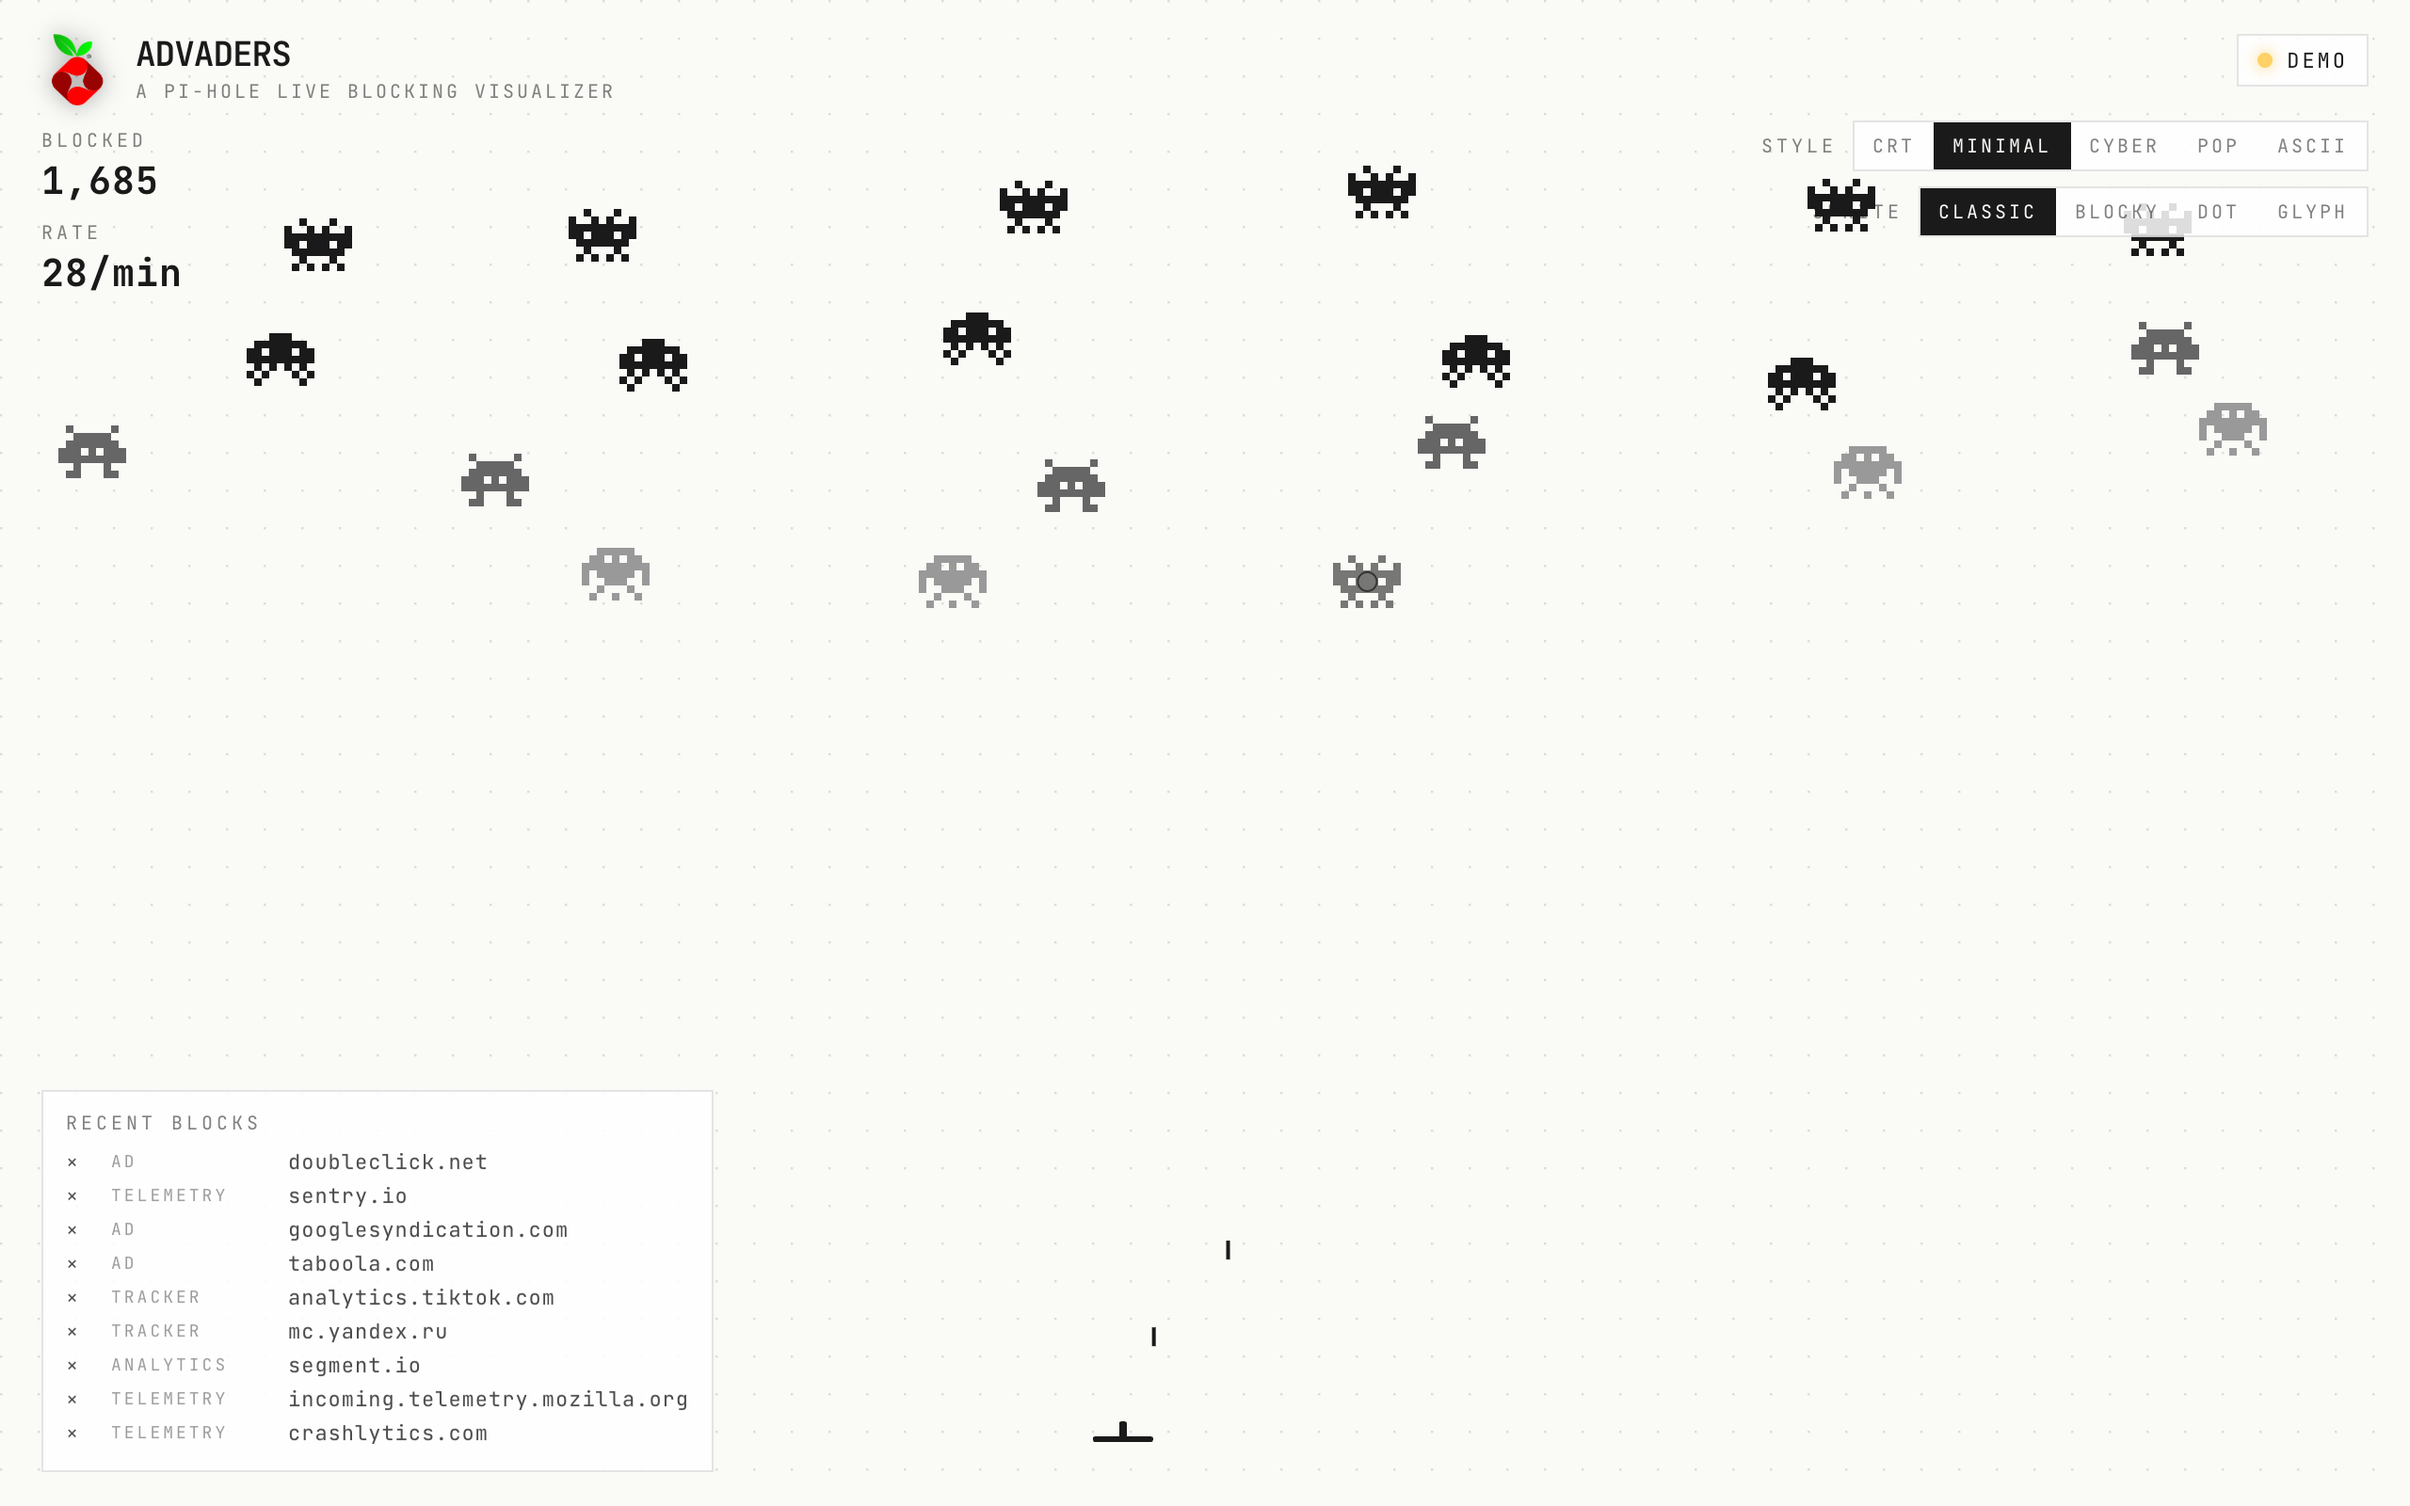
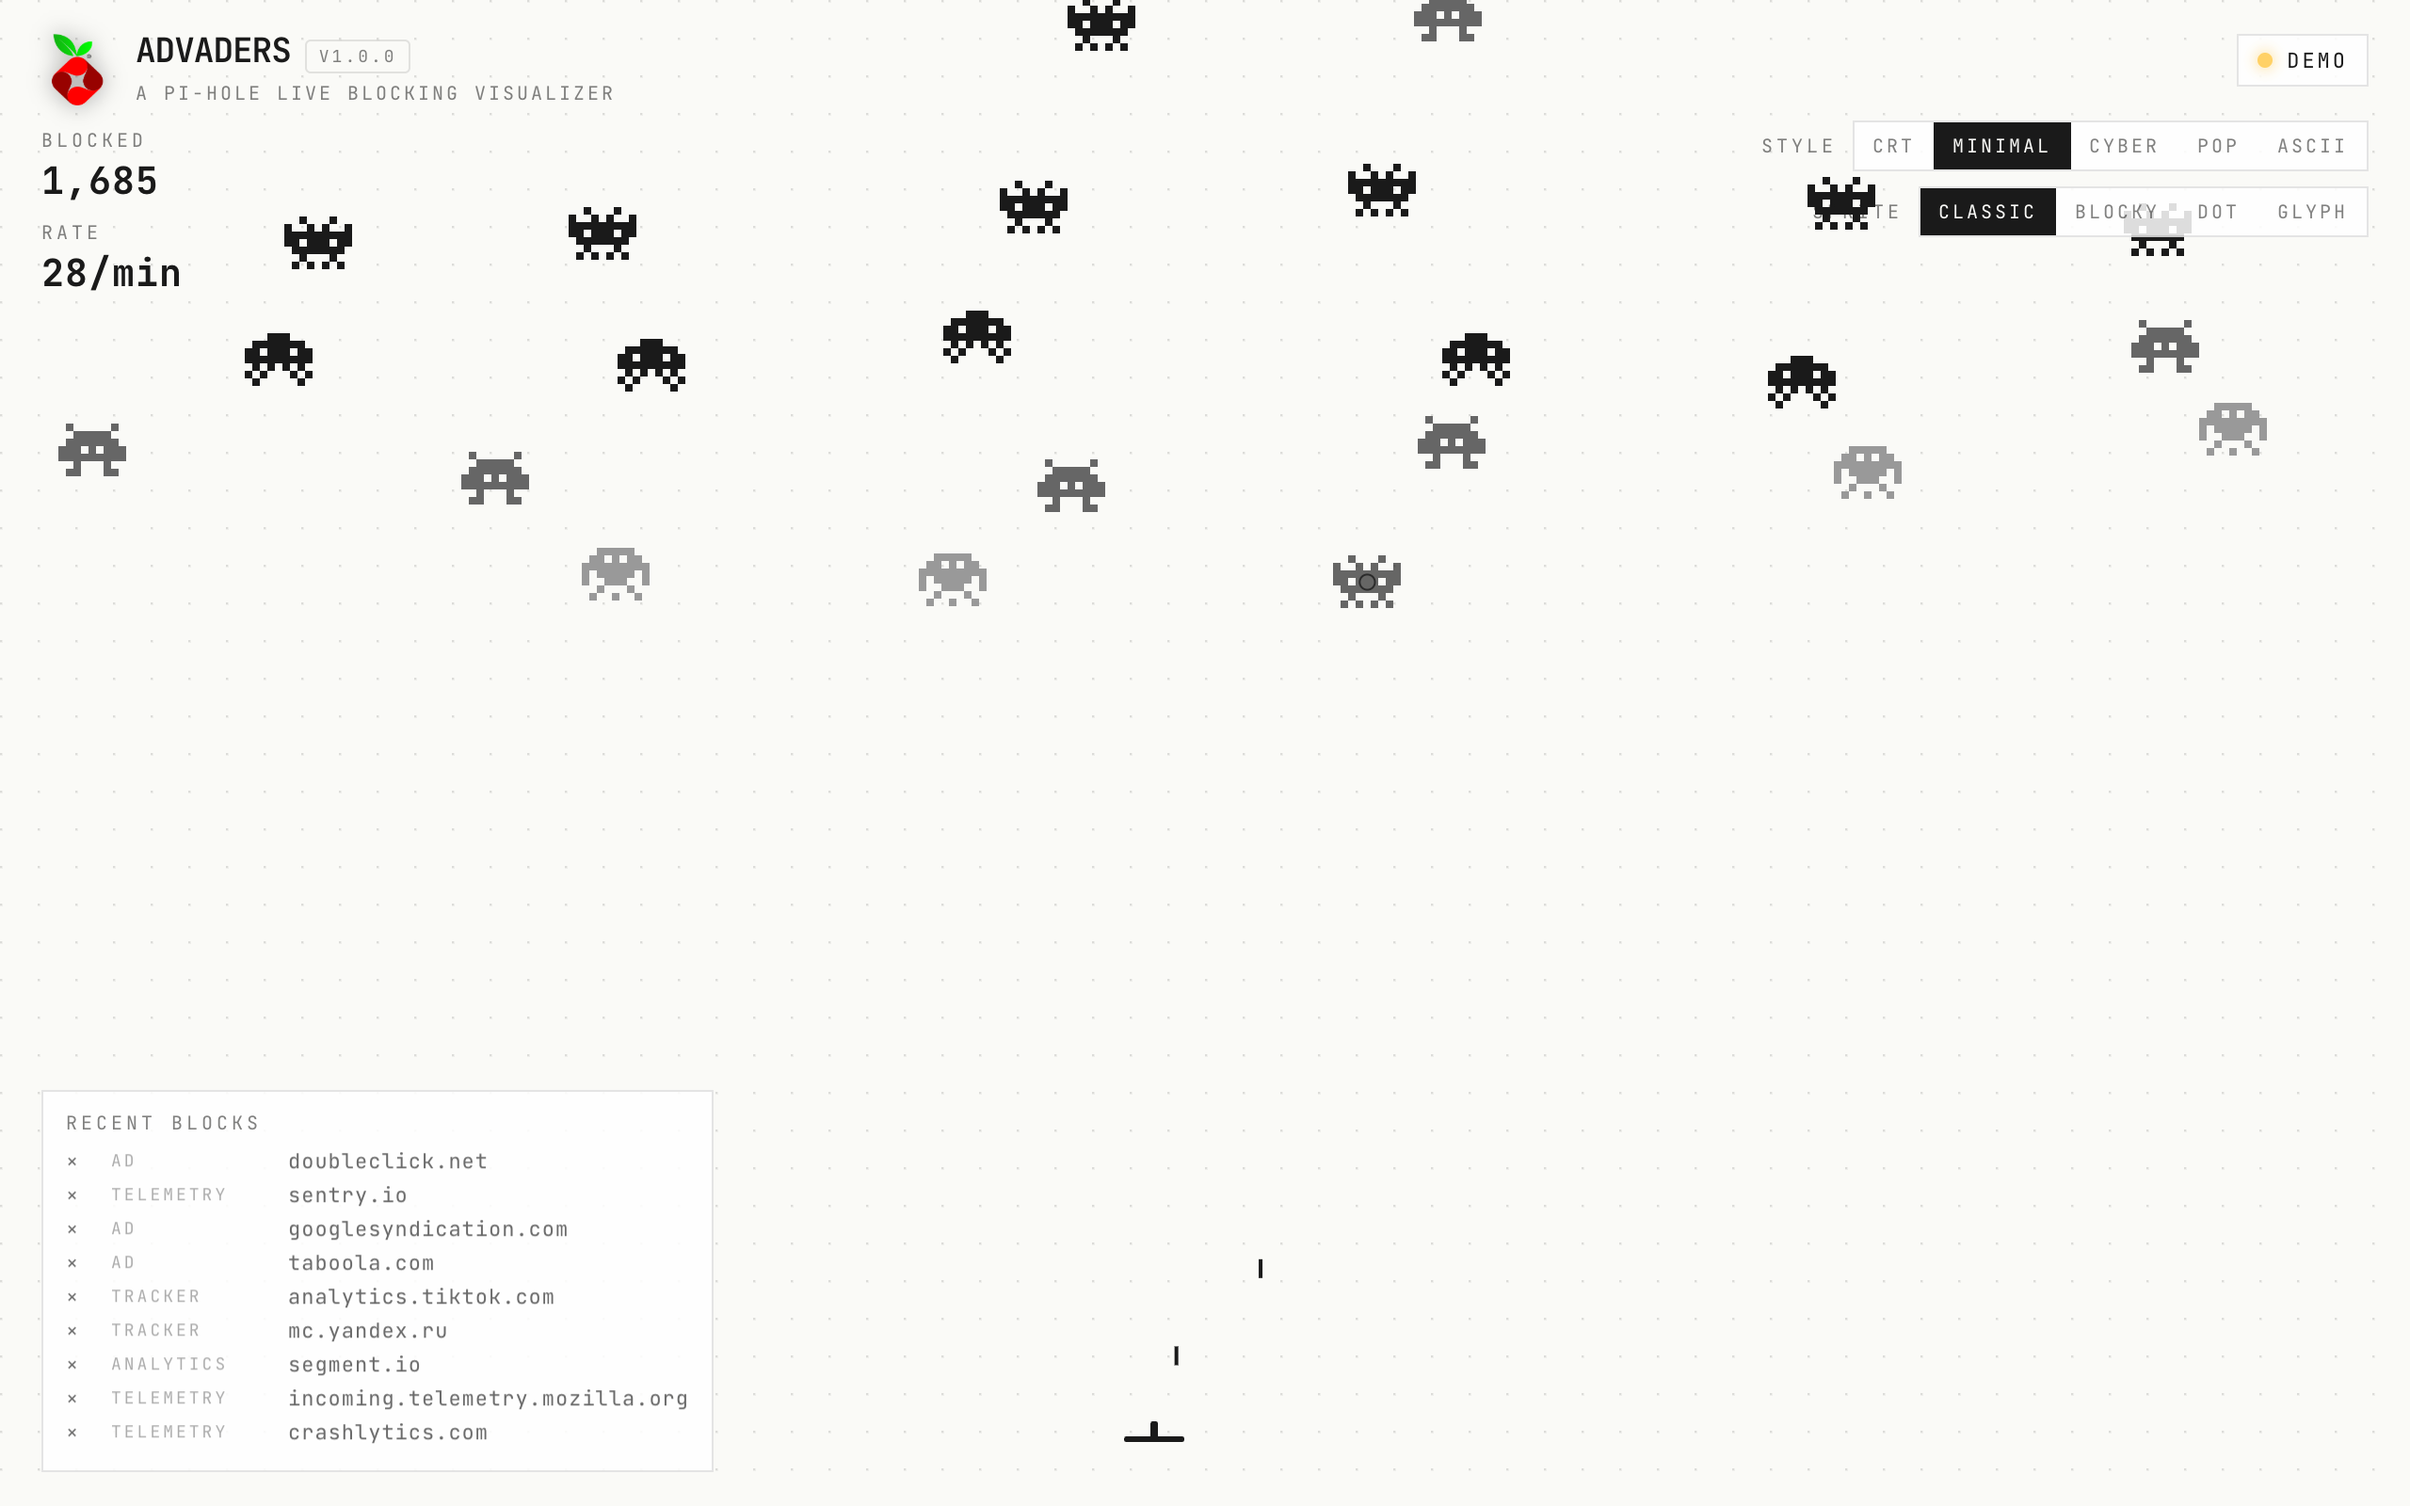
Pre-1.0 audit: bug fixes, perf, dead-code
Bugs:
- Demo mode no longer sticky — poller keeps running and recovers when
  Pi-hole returns
- First Pi-hole poll skips the historical backlog (Pi-hole's /api/queries
  returns the last N records; we'd flood the field with old blocks at
  startup and on every page load)
- document.title is no longer clobbered by the default cfg.title — only
  overridden when the user customizes TITLE
- body.className uses classList add/remove so it doesn't clobber
  unrelated classes

Perf:
- Theme backgrounds (CRT scanlines, minimal dot grid, cyber grid lines,
  ASCII char rain, pop gradient) are static per theme/W/H — cached into
  an offscreen canvas and drawImage'd each frame instead of redrawn.
  Biggest gain on ASCII (was ~5000 fillText calls/frame).
- Tooltip: skip DOM writes when hovered state unchanged; cache offsetW/H
  to avoid forced layout 60 times/sec.
- Shot homing: squared-distance hit test (no sqrt) + skip homing math
  on hit frame.

Dead code:
- inv.seed (written, never read), hash() (now unused)
- DEFAULT_DENSITY env var + state.config.defaultDensity were plumbed but
  never wired up — removed everywhere

diff --git a/public/game.js b/public/game.js
@@ -352,6 +352,28 @@ function roundRect(ctx, x, y, w, h, r) {
   ctx.closePath();
 }
 
+// ── background cache (theme bgs are static per W/H/theme, expensive to
+// redraw at 60fps — minimal's dot grid + ASCII's char rain alone are
+// thousands of draw calls per frame). Render once into an offscreen
+// canvas, drawImage from there each frame. Invalidate on resize/theme.
+let bgCache = { theme: null, w: 0, h: 0, dpr: 0, canvas: null };
+function getBgCanvas(theme, w, h) {
+  if (bgCache.theme === theme && bgCache.w === w && bgCache.h === h && bgCache.dpr === DPR) {
+    return bgCache.canvas;
+  }
+  const c = bgCache.canvas || document.createElement('canvas');
+  c.width = Math.floor(w * DPR);
+  c.height = Math.floor(h * DPR);
+  const cx = c.getContext('2d');
+  cx.setTransform(DPR, 0, 0, DPR, 0, 0);
+  cx.imageSmoothingEnabled = false;
+  cx.fillStyle = theme.bg === 'gradient' ? '#ffe6c4' : theme.bg;
+  cx.fillRect(0, 0, w, h);
+  theme.drawBg(cx, w, h);
+  bgCache = { theme, w, h, dpr: DPR, canvas: c };
+  return c;
+}
+
 // ── sprite cache (offscreen rasterized pixel art) ──────────
 const spriteCache = new Map();
 function getSpriteCanvas(category, frame, color, blocky) {
@@ -417,7 +439,6 @@ function drawInvader(inv, theme, spriteStyle, frame, hovered) {
 // ── state ──────────────────────────────────────────────────
 const CLIENT_NAMES = ['kitchen-tv', 'macbook-pro', 'iphone-15', 'roku-living', 'pixel-9', 'office-laptop', 'thermostat'];
 function pickClient(real) { return real || CLIENT_NAMES[Math.floor(Math.random() * CLIENT_NAMES.length)]; }
-function hash(s) { let h = 0; for (let i = 0; i < s.length; i++) h = ((h << 5) - h + s.charCodeAt(i)) | 0; return Math.abs(h); }
 
 const state = {
   config: {
@@ -479,9 +500,10 @@ function hitTest(mx, my) {
 let lastTimestamp = 0;
 let pollInflight = false;
 let lastSeenIds = new Set();
+let firstPoll = true;
 
 async function pollPihole() {
-  if (demoMode || pollInflight) return;
+  if (pollInflight) return;
   pollInflight = true;
   try {
     const r = await fetch(`api/queries?since=${lastTimestamp}`);
@@ -496,10 +518,17 @@ async function pollPihole() {
       if (lastSeenIds.size > 1000) {
         const arr = [...lastSeenIds]; lastSeenIds = new Set(arr.slice(-500));
       }
-      const interval = state.config.pollIntervalMs;
-      const stagger = blocked.length > 0 ? Math.max(40, Math.floor(interval / Math.max(blocked.length, 1))) : 0;
-      blocked.forEach((q, i) => setTimeout(() => state.spawnQueue.push(q), i * stagger));
       lastTimestamp = data.timestamp || lastTimestamp;
+      // Skip the historical backlog returned by the very first poll —
+      // we just want to start tracking from "now". Without this, Pi-hole's
+      // last 200 blocks would all flood the field at startup.
+      if (firstPoll) {
+        firstPoll = false;
+      } else if (blocked.length) {
+        const interval = state.config.pollIntervalMs;
+        const stagger = Math.max(40, Math.floor(interval / blocked.length));
+        blocked.forEach((q, i) => setTimeout(() => state.spawnQueue.push(q), i * stagger));
+      }
     } else {
       startDemo();
     }
@@ -555,11 +584,10 @@ function tickDemo() {
 
 // ── sim ────────────────────────────────────────────────────
 function spawnInvader(q) {
-  const cat = categoryOf(q.domain);
   state.invaders.push({
     id: nextId++,
     domain: q.domain,
-    category: cat,
+    category: categoryOf(q.domain),
     client: pickClient(q.client),
     list: pickList(q.status),
     time: q.time ? q.time * 1000 : Date.now(),
@@ -568,7 +596,6 @@ function spawnInvader(q) {
     y: -30 - Math.random() * 40,
     vy: 18 + Math.random() * 12,
     vx: (Math.random() - 0.5) * 8,
-    seed: hash(q.domain || ''),
     spawnT: performance.now(),
     dead: false,
     deathT: 0,
@@ -630,22 +657,26 @@ function step(dt, t) {
     }
   }
 
-  // shots home toward target
+  // shots home toward target (squared distance to avoid sqrt in hot loop)
+  const HIT_R2 = 196; // 14²
+  const SHOT_SPEED = 620;
   for (const s of state.shots) {
     const inv = state.invaders.find(i => i.id === s.targetId && !i.dead);
     if (!inv) { s.dead = true; continue; }
     const dx = inv.x - s.x, dy = inv.y - s.y;
-    const d = Math.hypot(dx, dy) || 1;
-    const speed = 620;
-    s.x += (dx / d) * speed * dt;
-    s.y += (dy / d) * speed * dt;
-    if (d < 14) {
+    const d2 = dx * dx + dy * dy;
+    if (d2 < HIT_R2) {
       s.dead = true;
       inv.dead = true;
       inv.deathT = t;
       state.bursts.push({ id: s.id, x: inv.x, y: inv.y, t, category: inv.category });
       onBlocked(inv);
+      continue;
     }
+    const inv_d = Math.sqrt(d2) || 1;
+    const k = SHOT_SPEED * dt / inv_d;
+    s.x += dx * k;
+    s.y += dy * k;
   }
 
   // GC
@@ -676,9 +707,8 @@ function drawFrame() {
   const t = performance.now();
   const theme = THEMES[state.theme];
 
-  ctx.fillStyle = theme.bg === 'gradient' ? '#ffe6c4' : theme.bg;
-  ctx.fillRect(0, 0, W, H);
-  theme.drawBg(ctx, W, H, t);
+  const bg = getBgCanvas(theme, W, H);
+  ctx.drawImage(bg, 0, 0, W, H);
 
   const frame = Math.floor(t / 380) % 2;
 
@@ -750,15 +780,32 @@ function updateConnectionDOM() {
   dom.connDot.className = 'status-dot ' + (state.connected ? 'live' : 'demo');
 }
 
+// Tooltip render is called every animation frame. Skip DOM writes when
+// nothing changed; only re-measure size when the hovered invader changes
+// (offsetWidth/Height force layout, expensive at 60Hz).
+let lastHovered = null;
+let tooltipShown = false;
+let ttW = 0, ttH = 0;
 function renderTooltip() {
   const inv = state.hovered;
-  if (!inv || inv.dead) { dom.tooltip.hidden = true; return; }
-  dom.tooltip.hidden = false;
-  dom.ttDomain.textContent = inv.domain;
-  dom.ttMeta.textContent = `${inv.category} · ${inv.client}`;
-  const TT_W = dom.tooltip.offsetWidth, TT_H = dom.tooltip.offsetHeight;
-  let x = inv.x + 18, y = inv.y - TT_H - 8;
-  if (x + TT_W > W - 8) x = inv.x - TT_W - 18;
+  if (!inv || inv.dead) {
+    if (tooltipShown) {
+      dom.tooltip.hidden = true;
+      tooltipShown = false;
+      lastHovered = null;
+    }
+    return;
+  }
+  if (inv !== lastHovered) {
+    dom.ttDomain.textContent = inv.domain;
+    dom.ttMeta.textContent = `${inv.category} · ${inv.client}`;
+    if (!tooltipShown) { dom.tooltip.hidden = false; tooltipShown = true; }
+    ttW = dom.tooltip.offsetWidth;
+    ttH = dom.tooltip.offsetHeight;
+    lastHovered = inv;
+  }
+  let x = inv.x + 18, y = inv.y - ttH - 8;
+  if (x + ttW > W - 8) x = inv.x - ttW - 18;
   if (y < 8) y = inv.y + 22;
   dom.tooltip.style.left = x + 'px';
   dom.tooltip.style.top = y + 'px';
@@ -799,7 +846,9 @@ function setActive(container, val) {
 function applyTheme(name) {
   if (!THEMES[name]) return;
   state.theme = name;
-  document.body.className = 'theme-' + name;
+  const cls = document.body.classList;
+  for (const c of [...cls]) if (c.startsWith('theme-')) cls.remove(c);
+  cls.add('theme-' + name);
   setActive(dom.themeSeg, name);
   try { localStorage.setItem('advaders.theme', name); } catch {}
 }
@@ -831,7 +880,9 @@ async function boot() {
   state.config = { ...state.config, ...cfg };
   if (cfg.title) {
     dom.title.textContent = cfg.title;
-    document.title = cfg.title;
+    // Only override the descriptive browser-tab title when the user
+    // customizes TITLE; the default keeps the SEO-friendly subtitle.
+    if (cfg.title !== 'ADVADERS') document.title = cfg.title;
   }
   if (cfg.version) {
     const el = document.getElementById('hud-version');
@@ -899,7 +950,7 @@ function seedField(n) {
       id: nextId++, domain: pick.d, category: pick.c, client: '192.168.1.42',
       list: 'StevenBlack', time: Date.now(), status: 'GRAVITY',
       x, y, vy: 18 + rng() * 12, vx: (rng() - 0.5) * 6,
-      seed: hash(pick.d), spawnT: performance.now() - 800,
+      spawnT: performance.now() - 800,
       dead: false, deathT: 0,
     });
   }

diff --git a/server.js b/server.js
@@ -37,7 +37,6 @@ const CONFIG = {
 
   DEFAULT_THEME: envStr('DEFAULT_THEME', 'crt'),
   DEFAULT_SPRITE: envStr('DEFAULT_SPRITE', 'classic'),
-  DEFAULT_DENSITY: envStr('DEFAULT_DENSITY', 'normal'),
   TITLE: envStr('TITLE', 'ADVADERS'),
 };
 
@@ -104,7 +103,6 @@ function clientConfig() {
     pollIntervalMs: CONFIG.POLL_INTERVAL_MS,
     defaultTheme: CONFIG.DEFAULT_THEME,
     defaultSprite: CONFIG.DEFAULT_SPRITE,
-    defaultDensity: CONFIG.DEFAULT_DENSITY,
     title: CONFIG.TITLE,
     version: VERSION,
   };

diff --git a/README.md b/README.md
@@ -123,9 +123,8 @@ Every knob is an env var.
 | `PIHOLE_INSECURE_TLS` | `false`            | Accept self-signed certs                             |
 | `PIHOLE_QUERY_LENGTH` | `200`              | `length` param sent to Pi-hole `/api/queries`        |
 | `POLL_INTERVAL_MS`    | `2000`             | How often the browser polls the proxy                |
-| `DEFAULT_THEME`       | `crt`              | `crt` \| `minimal` \| `cyber` \| `pop`               |
+| `DEFAULT_THEME`       | `crt`              | `crt` \| `minimal` \| `cyber` \| `pop` \| `ascii`    |
 | `DEFAULT_SPRITE`      | `classic`          | `classic` \| `blocky` \| `dot` \| `glyph`            |
-| `DEFAULT_DENSITY`     | `normal`           | `sparse` \| `normal` \| `dense`                      |
 
 `?theme=`, `?sprite=`, and `?seed=N` URL params override defaults at runtime (used by the screenshot script and for sharing specific looks).
 
